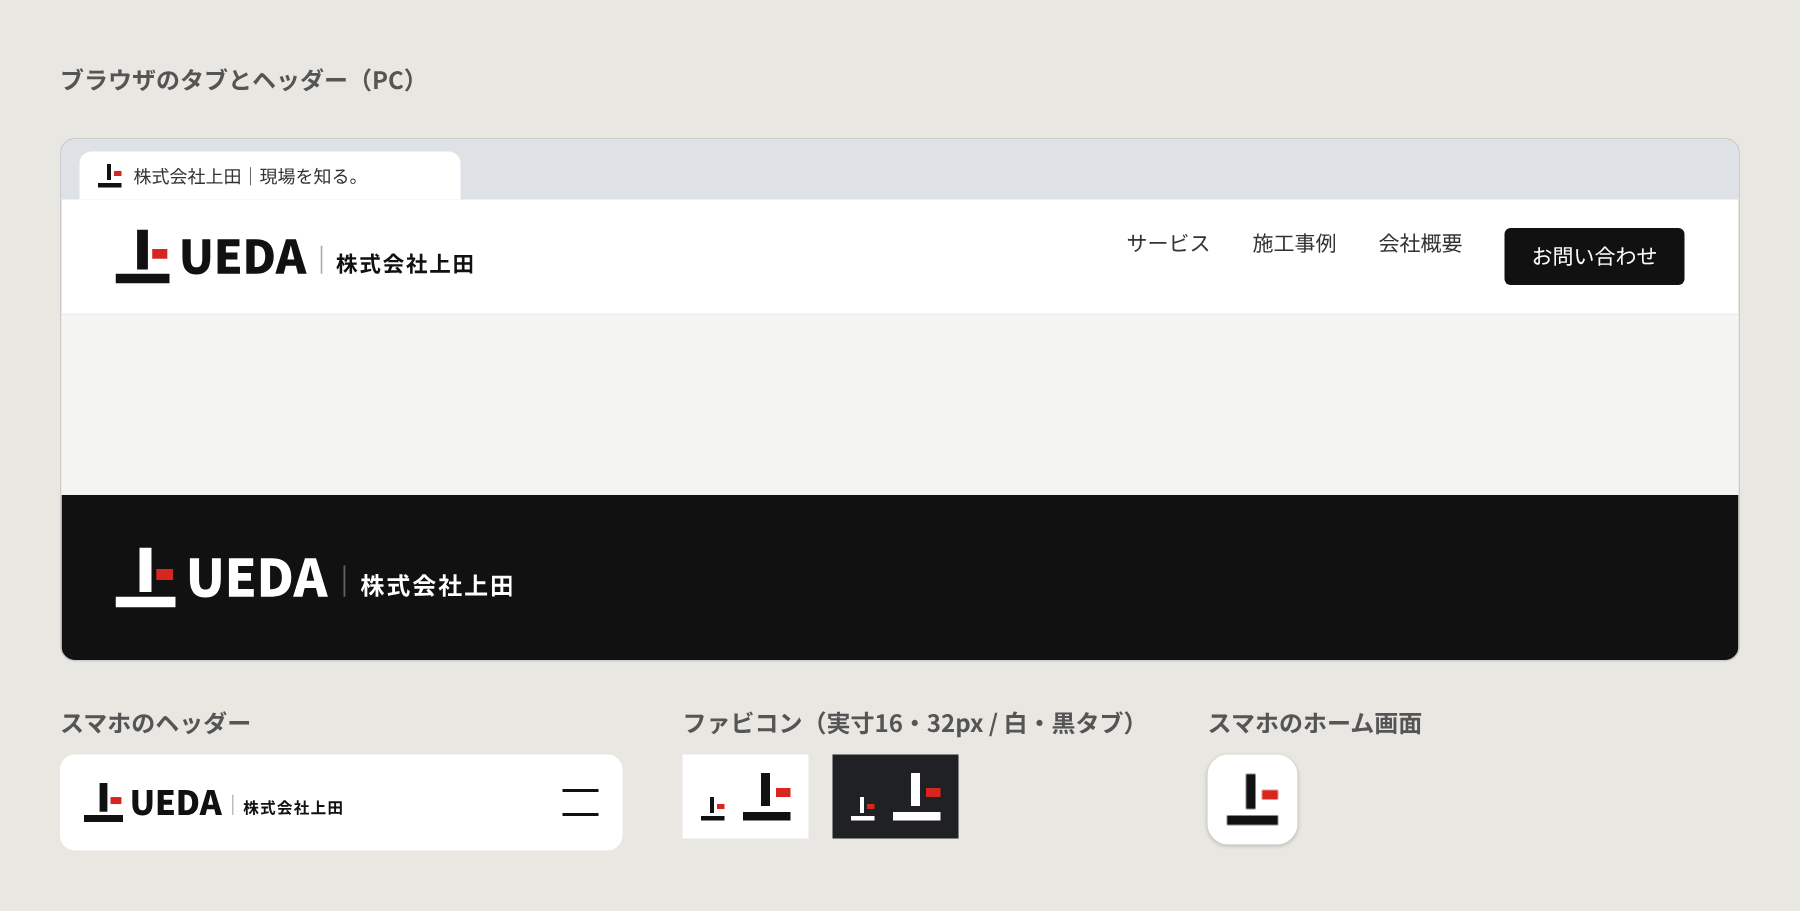
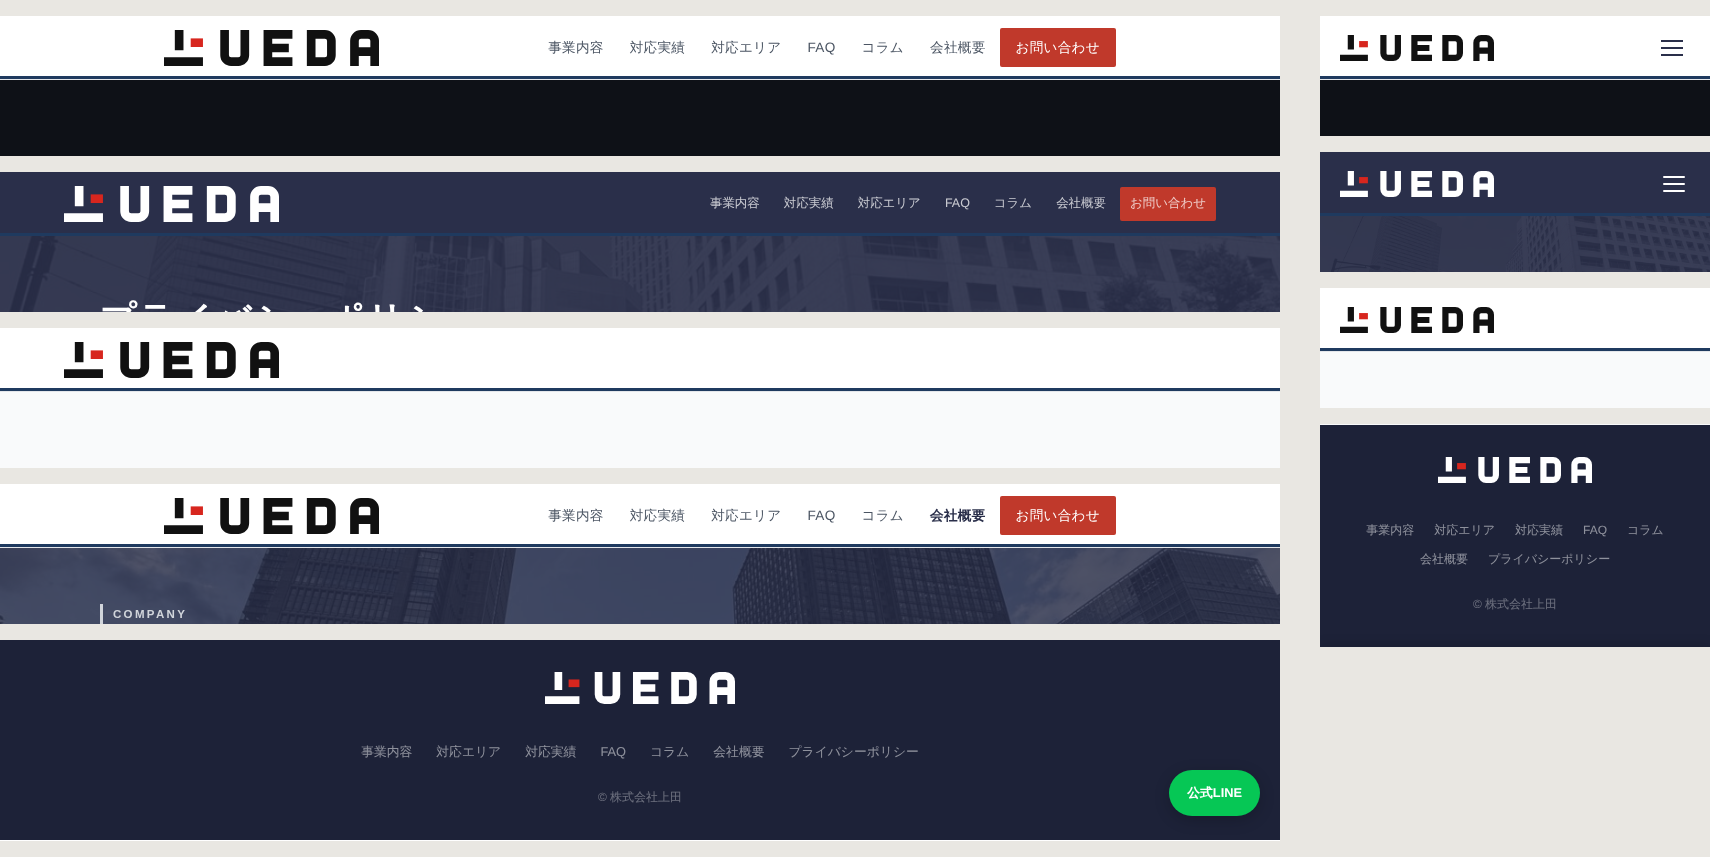
ロゴを改訂：「上」マークの線24・隙間20、英字UEDAをロゴ専用書体（太さ24）に、ヘッダー下に紺の線
- マーク：線の太さ24、縦棒と横棒の隙間20に変更
- 英字：既製フォントからロゴ専用に描いた「UEDA」（太さ24）に変更
- 全ページのヘッダー下に紺（#1F3A5F）の線を追加
- ファビコン・ホーム画面アイコンを新マークで作り直し
- 印刷用データに「株式会社上田」入り横組み・縦組みを追加、確認画像とREADMEを更新

Claude-Session: https://claude.ai/code/session_0142gn6YnFtHiP5Fo89Qs56h

diff --git a/index.html b/index.html
@@ -958,6 +958,7 @@ ul { list-style: none; }
 .l-header__logo .l-header__brand { height: 36px; width: auto; display: block; }
 .l-footer__brand { display: inline-block; margin-bottom: 24px; }
 .l-footer__brand img { height: 32px; width: auto; display: block; }
+.l-header { box-shadow: inset 0 -3px 0 #1F3A5F; }
 @media (max-width: 768px) {
     .l-header__logo .l-header__brand { height: 26px; }
     .l-footer__brand img { height: 26px; }
@@ -972,7 +973,7 @@ ul { list-style: none; }
 <header class="l-header">
     <div class="l-header__inner">
         <a class="l-header__logo" href="index.html">
-            <img src="images/brand/logo-header-color.svg" alt="株式会社上田" class="l-header__brand" width="238" height="36" loading="eager" fetchpriority="high">
+            <img src="images/brand/logo-header-color.svg" alt="株式会社上田" class="l-header__brand" width="215" height="36" loading="eager" fetchpriority="high">
         </a>
         <nav>
             <button class="l-nav__toggle" id="navToggle" aria-label="メニューを開く" aria-expanded="false">
@@ -1407,7 +1408,7 @@ ul { list-style: none; }
      フッター
 ======================================================== -->
 <footer class="l-footer">
-    <a href="index.html" class="l-footer__brand"><img src="images/brand/logo-header-white.svg" alt="株式会社上田" width="212" height="32" loading="lazy"></a>
+    <a href="index.html" class="l-footer__brand"><img src="images/brand/logo-header-white.svg" alt="株式会社上田" width="191" height="32" loading="lazy"></a>
     <nav class="l-footer__nav" aria-label="フッターナビゲーション">
         <a href="services.html">事業内容</a>
         <a href="area.html">対応エリア</a>

diff --git a/report-guide.html b/report-guide.html
@@ -974,6 +974,7 @@ ul { list-style: none; }
 .l-header__logo .l-header__brand { height: 36px; width: auto; display: block; }
 .l-footer__brand { display: inline-block; margin-bottom: 24px; }
 .l-footer__brand img { height: 32px; width: auto; display: block; }
+.l-header { box-shadow: inset 0 -3px 0 #1F3A5F; }
 @media (max-width: 768px) {
     .l-header__logo .l-header__brand { height: 26px; }
     .l-footer__brand img { height: 26px; }
@@ -988,7 +989,7 @@ ul { list-style: none; }
 <header class="l-header">
     <div class="l-header__inner">
         <a class="l-header__logo" href="index.html">
-            <img src="images/brand/logo-header-color.svg" alt="株式会社上田" class="l-header__brand" width="238" height="36" loading="eager" fetchpriority="high">
+            <img src="images/brand/logo-header-color.svg" alt="株式会社上田" class="l-header__brand" width="215" height="36" loading="eager" fetchpriority="high">
         </a>
         <nav>
             <button class="l-nav__toggle" id="navToggle" aria-label="メニューを開く" aria-expanded="false">
@@ -1243,7 +1244,7 @@ ul { list-style: none; }
      フッター
 ======================================================== -->
 <footer class="l-footer">
-    <a href="index.html" class="l-footer__brand"><img src="images/brand/logo-header-white.svg" alt="株式会社上田" width="212" height="32" loading="lazy"></a>
+    <a href="index.html" class="l-footer__brand"><img src="images/brand/logo-header-white.svg" alt="株式会社上田" width="191" height="32" loading="lazy"></a>
     <nav class="l-footer__nav" aria-label="フッターナビゲーション">
         <a href="services.html">事業内容</a>
         <a href="area.html">対応エリア</a>

diff --git a/build.html b/build.html
@@ -717,6 +717,7 @@ ul { list-style: none; }
 .l-header__logo .l-header__brand { height: 36px; width: auto; display: block; }
 .l-footer__brand { display: inline-block; margin-bottom: 24px; }
 .l-footer__brand img { height: 32px; width: auto; display: block; }
+.l-header { box-shadow: inset 0 -3px 0 #1F3A5F; }
 @media (max-width: 768px) {
     .l-header__logo .l-header__brand { height: 26px; }
     .l-footer__brand img { height: 26px; }
@@ -729,7 +730,7 @@ ul { list-style: none; }
 <header class="l-header">
     <div class="l-header__inner">
         <a class="l-header__logo" href="index.html">
-            <img src="images/brand/logo-header-color.svg" alt="株式会社上田" class="l-header__brand" width="238" height="36" loading="eager" fetchpriority="high">
+            <img src="images/brand/logo-header-color.svg" alt="株式会社上田" class="l-header__brand" width="215" height="36" loading="eager" fetchpriority="high">
         </a>
         <nav>
             <button class="l-nav__toggle" id="navToggle" aria-label="メニューを開く" aria-expanded="false">
@@ -1013,7 +1014,7 @@ ul { list-style: none; }
 
 <!-- フッター -->
 <footer class="l-footer">
-    <a href="index.html" class="l-footer__brand"><img src="images/brand/logo-header-white.svg" alt="株式会社上田" width="212" height="32" loading="lazy"></a>
+    <a href="index.html" class="l-footer__brand"><img src="images/brand/logo-header-white.svg" alt="株式会社上田" width="191" height="32" loading="lazy"></a>
     <nav class="l-footer__nav" aria-label="フッターナビゲーション">
         <a href="services.html">事業内容</a>
         <a href="build.html">体制構築支援</a>

diff --git a/services.html b/services.html
@@ -459,6 +459,7 @@ ul { list-style: none; }
 .l-header__logo .l-header__brand { height: 36px; width: auto; display: block; }
 .l-footer__brand { display: inline-block; margin-bottom: 24px; }
 .l-footer__brand img { height: 32px; width: auto; display: block; }
+.l-header { box-shadow: inset 0 -3px 0 #1F3A5F; }
 @media (max-width: 768px) {
     .l-header__logo .l-header__brand { height: 26px; }
     .l-footer__brand img { height: 26px; }
@@ -471,7 +472,7 @@ ul { list-style: none; }
 <header class="l-header">
     <div class="l-header__inner">
         <a class="l-header__logo" href="index.html">
-            <img src="images/brand/logo-header-color.svg" alt="株式会社上田" class="l-header__brand" width="238" height="36" loading="eager" fetchpriority="high">
+            <img src="images/brand/logo-header-color.svg" alt="株式会社上田" class="l-header__brand" width="215" height="36" loading="eager" fetchpriority="high">
         </a>
         <nav>
             <button class="l-nav__toggle" id="navToggle" aria-label="メニューを開く" aria-expanded="false">
@@ -841,7 +842,7 @@ ul { list-style: none; }
 
 <!-- フッター -->
 <footer class="l-footer">
-    <a href="index.html" class="l-footer__brand"><img src="images/brand/logo-header-white.svg" alt="株式会社上田" width="212" height="32" loading="lazy"></a>
+    <a href="index.html" class="l-footer__brand"><img src="images/brand/logo-header-white.svg" alt="株式会社上田" width="191" height="32" loading="lazy"></a>
     <nav class="l-footer__nav" aria-label="フッターナビゲーション">
         <a href="services.html">事業内容</a>
         <a href="area.html">対応エリア</a>

diff --git a/company.html b/company.html
@@ -210,6 +210,7 @@ ul { list-style: none; }
 .l-header__logo .l-header__brand { height: 36px; width: auto; display: block; }
 .l-footer__brand { display: inline-block; margin-bottom: 24px; }
 .l-footer__brand img { height: 32px; width: auto; display: block; }
+.l-header { box-shadow: inset 0 -3px 0 #1F3A5F; }
 @media (max-width: 768px) {
     .l-header__logo .l-header__brand { height: 26px; }
     .l-footer__brand img { height: 26px; }
@@ -221,7 +222,7 @@ ul { list-style: none; }
 <header class="l-header">
     <div class="l-header__inner">
         <a class="l-header__logo" href="index.html">
-            <img src="images/brand/logo-header-color.svg" alt="株式会社上田" class="l-header__brand" width="238" height="36" loading="eager" fetchpriority="high">
+            <img src="images/brand/logo-header-color.svg" alt="株式会社上田" class="l-header__brand" width="215" height="36" loading="eager" fetchpriority="high">
         </a>
         <nav>
             <button class="l-nav__toggle" id="navToggle" aria-label="メニューを開く" aria-expanded="false">
@@ -332,7 +333,7 @@ ul { list-style: none; }
 </main>
 
 <footer class="l-footer">
-    <a href="index.html" class="l-footer__brand"><img src="images/brand/logo-header-white.svg" alt="株式会社上田" width="212" height="32" loading="lazy"></a>
+    <a href="index.html" class="l-footer__brand"><img src="images/brand/logo-header-white.svg" alt="株式会社上田" width="191" height="32" loading="lazy"></a>
     <nav class="l-footer__nav" aria-label="フッターナビゲーション">
         <a href="services.html">事業内容</a>
         <a href="area.html">対応エリア</a>

diff --git a/blog.html b/blog.html
@@ -219,6 +219,7 @@ ul { list-style: none; }
 .l-header__logo .l-header__brand { height: 36px; width: auto; display: block; }
 .l-footer__brand { display: inline-block; margin-bottom: 24px; }
 .l-footer__brand img { height: 32px; width: auto; display: block; }
+.l-header { box-shadow: inset 0 -3px 0 #1F3A5F; }
 @media (max-width: 768px) {
     .l-header__logo .l-header__brand { height: 26px; }
     .l-footer__brand img { height: 26px; }
@@ -230,7 +231,7 @@ ul { list-style: none; }
 <header class="l-header">
     <div class="l-header__inner">
         <a class="l-header__logo" href="index.html">
-            <img src="images/brand/logo-header-color.svg" alt="株式会社上田" class="l-header__brand" width="238" height="36" loading="eager" fetchpriority="high">
+            <img src="images/brand/logo-header-color.svg" alt="株式会社上田" class="l-header__brand" width="215" height="36" loading="eager" fetchpriority="high">
         </a>
         <nav>
             <button class="l-nav__toggle" id="navToggle" aria-label="メニューを開く" aria-expanded="false">
@@ -1015,7 +1016,7 @@ ul { list-style: none; }
 </section>
 
 <footer class="l-footer">
-    <a href="index.html" class="l-footer__brand"><img src="images/brand/logo-header-white.svg" alt="株式会社上田" width="212" height="32" loading="lazy"></a>
+    <a href="index.html" class="l-footer__brand"><img src="images/brand/logo-header-white.svg" alt="株式会社上田" width="191" height="32" loading="lazy"></a>
     <nav class="l-footer__nav">
         <a href="services.html">事業内容</a>
         <a href="area.html">対応エリア</a>

diff --git a/area.html b/area.html
@@ -292,6 +292,7 @@ ul { list-style: none; }
 .l-header__logo .l-header__brand { height: 36px; width: auto; display: block; }
 .l-footer__brand { display: inline-block; margin-bottom: 24px; }
 .l-footer__brand img { height: 32px; width: auto; display: block; }
+.l-header { box-shadow: inset 0 -3px 0 #1F3A5F; }
 @media (max-width: 768px) {
     .l-header__logo .l-header__brand { height: 26px; }
     .l-footer__brand img { height: 26px; }
@@ -303,7 +304,7 @@ ul { list-style: none; }
 <header class="l-header">
     <div class="l-header__inner">
         <a class="l-header__logo" href="index.html">
-            <img src="images/brand/logo-header-color.svg" alt="株式会社上田" class="l-header__brand" width="238" height="36" loading="eager" fetchpriority="high">
+            <img src="images/brand/logo-header-color.svg" alt="株式会社上田" class="l-header__brand" width="215" height="36" loading="eager" fetchpriority="high">
         </a>
         <nav>
             <button class="l-nav__toggle" id="navToggle" aria-label="メニューを開く" aria-expanded="false">
@@ -386,7 +387,7 @@ ul { list-style: none; }
 </section>
 
 <footer class="l-footer">
-    <a href="index.html" class="l-footer__brand"><img src="images/brand/logo-header-white.svg" alt="株式会社上田" width="212" height="32" loading="lazy"></a>
+    <a href="index.html" class="l-footer__brand"><img src="images/brand/logo-header-white.svg" alt="株式会社上田" width="191" height="32" loading="lazy"></a>
     <nav class="l-footer__nav">
         <a href="services.html">事業内容</a>
         <a href="area.html">対応エリア</a>

diff --git a/blog-2.html b/blog-2.html
@@ -222,6 +222,7 @@ ul { list-style: none; }
 .l-header__logo .l-header__brand { height: 36px; width: auto; display: block; }
 .l-footer__brand { display: inline-block; margin-bottom: 24px; }
 .l-footer__brand img { height: 32px; width: auto; display: block; }
+.l-header { box-shadow: inset 0 -3px 0 #1F3A5F; }
 @media (max-width: 768px) {
     .l-header__logo .l-header__brand { height: 26px; }
     .l-footer__brand img { height: 26px; }
@@ -233,7 +234,7 @@ ul { list-style: none; }
 <header class="l-header">
     <div class="l-header__inner">
         <a class="l-header__logo" href="index.html">
-            <img src="images/brand/logo-header-color.svg" alt="株式会社上田" class="l-header__brand" width="238" height="36" loading="eager" fetchpriority="high">
+            <img src="images/brand/logo-header-color.svg" alt="株式会社上田" class="l-header__brand" width="215" height="36" loading="eager" fetchpriority="high">
         </a>
         <nav>
             <button class="l-nav__toggle" id="navToggle" aria-label="メニューを開く" aria-expanded="false">
@@ -548,7 +549,7 @@ ul { list-style: none; }
 </section>
 
 <footer class="l-footer">
-    <a href="index.html" class="l-footer__brand"><img src="images/brand/logo-header-white.svg" alt="株式会社上田" width="212" height="32" loading="lazy"></a>
+    <a href="index.html" class="l-footer__brand"><img src="images/brand/logo-header-white.svg" alt="株式会社上田" width="191" height="32" loading="lazy"></a>
     <nav class="l-footer__nav">
         <a href="services.html">事業内容</a>
         <a href="area.html">対応エリア</a>

diff --git a/case.html b/case.html
@@ -370,6 +370,7 @@ ul { list-style: none; }
 .l-header__logo .l-header__brand { height: 36px; width: auto; display: block; }
 .l-footer__brand { display: inline-block; margin-bottom: 24px; }
 .l-footer__brand img { height: 32px; width: auto; display: block; }
+.l-header { box-shadow: inset 0 -3px 0 #1F3A5F; }
 @media (max-width: 768px) {
     .l-header__logo .l-header__brand { height: 26px; }
     .l-footer__brand img { height: 26px; }
@@ -381,7 +382,7 @@ ul { list-style: none; }
 <header class="l-header">
     <div class="l-header__inner">
         <a class="l-header__logo" href="index.html">
-            <img src="images/brand/logo-header-color.svg" alt="株式会社上田" class="l-header__brand" width="238" height="36" loading="eager" fetchpriority="high">
+            <img src="images/brand/logo-header-color.svg" alt="株式会社上田" class="l-header__brand" width="215" height="36" loading="eager" fetchpriority="high">
         </a>
         <nav>
             <button class="l-nav__toggle" id="navToggle" aria-label="メニューを開く" aria-expanded="false">
@@ -675,7 +676,7 @@ ul { list-style: none; }
 </section>
 
 <footer class="l-footer">
-    <a href="index.html" class="l-footer__brand"><img src="images/brand/logo-header-white.svg" alt="株式会社上田" width="212" height="32" loading="lazy"></a>
+    <a href="index.html" class="l-footer__brand"><img src="images/brand/logo-header-white.svg" alt="株式会社上田" width="191" height="32" loading="lazy"></a>
     <nav class="l-footer__nav">
         <a href="services.html">事業内容</a>
         <a href="area.html">対応エリア</a>

diff --git a/contact.html b/contact.html
@@ -421,6 +421,7 @@ ul { list-style: none; }
 .l-header__logo .l-header__brand { height: 36px; width: auto; display: block; }
 .l-footer__brand { display: inline-block; margin-bottom: 24px; }
 .l-footer__brand img { height: 32px; width: auto; display: block; }
+.l-header { box-shadow: inset 0 -3px 0 #1F3A5F; }
 @media (max-width: 768px) {
     .l-header__logo .l-header__brand { height: 26px; }
     .l-footer__brand img { height: 26px; }
@@ -432,7 +433,7 @@ ul { list-style: none; }
 <header class="l-header">
     <div class="l-header__inner">
         <a class="l-header__logo" href="index.html">
-            <img src="images/brand/logo-header-color.svg" alt="株式会社上田" class="l-header__brand" width="238" height="36" loading="eager" fetchpriority="high">
+            <img src="images/brand/logo-header-color.svg" alt="株式会社上田" class="l-header__brand" width="215" height="36" loading="eager" fetchpriority="high">
         </a>
         <nav>
             <button class="l-nav__toggle" id="navToggle" aria-label="メニューを開く" aria-expanded="false">
@@ -555,7 +556,7 @@ ul { list-style: none; }
 </section>
 
 <footer class="l-footer">
-    <a href="index.html" class="l-footer__brand"><img src="images/brand/logo-header-white.svg" alt="株式会社上田" width="212" height="32" loading="lazy"></a>
+    <a href="index.html" class="l-footer__brand"><img src="images/brand/logo-header-white.svg" alt="株式会社上田" width="191" height="32" loading="lazy"></a>
     <nav class="l-footer__nav">
         <a href="services.html">事業内容</a>
         <a href="area.html">対応エリア</a>

diff --git a/faq.html b/faq.html
@@ -362,6 +362,7 @@ ul { list-style: none; }
 .l-header__logo .l-header__brand { height: 36px; width: auto; display: block; }
 .l-footer__brand { display: inline-block; margin-bottom: 24px; }
 .l-footer__brand img { height: 32px; width: auto; display: block; }
+.l-header { box-shadow: inset 0 -3px 0 #1F3A5F; }
 @media (max-width: 768px) {
     .l-header__logo .l-header__brand { height: 26px; }
     .l-footer__brand img { height: 26px; }
@@ -373,7 +374,7 @@ ul { list-style: none; }
 <header class="l-header">
     <div class="l-header__inner">
         <a class="l-header__logo" href="index.html">
-            <img src="images/brand/logo-header-color.svg" alt="株式会社上田" class="l-header__brand" width="238" height="36" loading="eager" fetchpriority="high">
+            <img src="images/brand/logo-header-color.svg" alt="株式会社上田" class="l-header__brand" width="215" height="36" loading="eager" fetchpriority="high">
         </a>
         <nav>
             <button class="l-nav__toggle" id="navToggle" aria-label="メニューを開く" aria-expanded="false">
@@ -476,7 +477,7 @@ ul { list-style: none; }
 </section>
 
 <footer class="l-footer">
-    <a href="index.html" class="l-footer__brand"><img src="images/brand/logo-header-white.svg" alt="株式会社上田" width="212" height="32" loading="lazy"></a>
+    <a href="index.html" class="l-footer__brand"><img src="images/brand/logo-header-white.svg" alt="株式会社上田" width="191" height="32" loading="lazy"></a>
     <nav class="l-footer__nav">
         <a href="services.html">事業内容</a>
         <a href="area.html">対応エリア</a>

diff --git a/privacy.html b/privacy.html
@@ -145,6 +145,7 @@ ul { list-style: none; }
 .l-header__logo .l-header__brand { height: 36px; width: auto; display: block; }
 .l-footer__brand { display: inline-block; margin-bottom: 24px; }
 .l-footer__brand img { height: 32px; width: auto; display: block; }
+.l-header { box-shadow: inset 0 -3px 0 #1F3A5F; }
 @media (max-width: 768px) {
     .l-header__logo .l-header__brand { height: 26px; }
     .l-footer__brand img { height: 26px; }
@@ -155,7 +156,7 @@ ul { list-style: none; }
 
 <header class="l-header">
     <a href="index.html" class="l-header__logo">
-            <img src="images/brand/logo-header-white.svg" alt="株式会社上田" class="l-header__brand" width="238" height="36" loading="eager" fetchpriority="high">
+            <img src="images/brand/logo-header-white.svg" alt="株式会社上田" class="l-header__brand" width="215" height="36" loading="eager" fetchpriority="high">
         </a>
     <button class="l-header__toggle" id="navToggle" aria-label="メニュー">
         <span></span><span></span><span></span>
@@ -270,7 +271,7 @@ ul { list-style: none; }
 </section>
 
 <footer class="l-footer">
-    <a href="index.html" class="l-footer__brand"><img src="images/brand/logo-header-white.svg" alt="株式会社上田" width="212" height="32" loading="lazy"></a>
+    <a href="index.html" class="l-footer__brand"><img src="images/brand/logo-header-white.svg" alt="株式会社上田" width="191" height="32" loading="lazy"></a>
     <nav class="l-footer__nav">
         <a href="services.html">事業内容</a>
         <a href="area.html">対応エリア</a>
